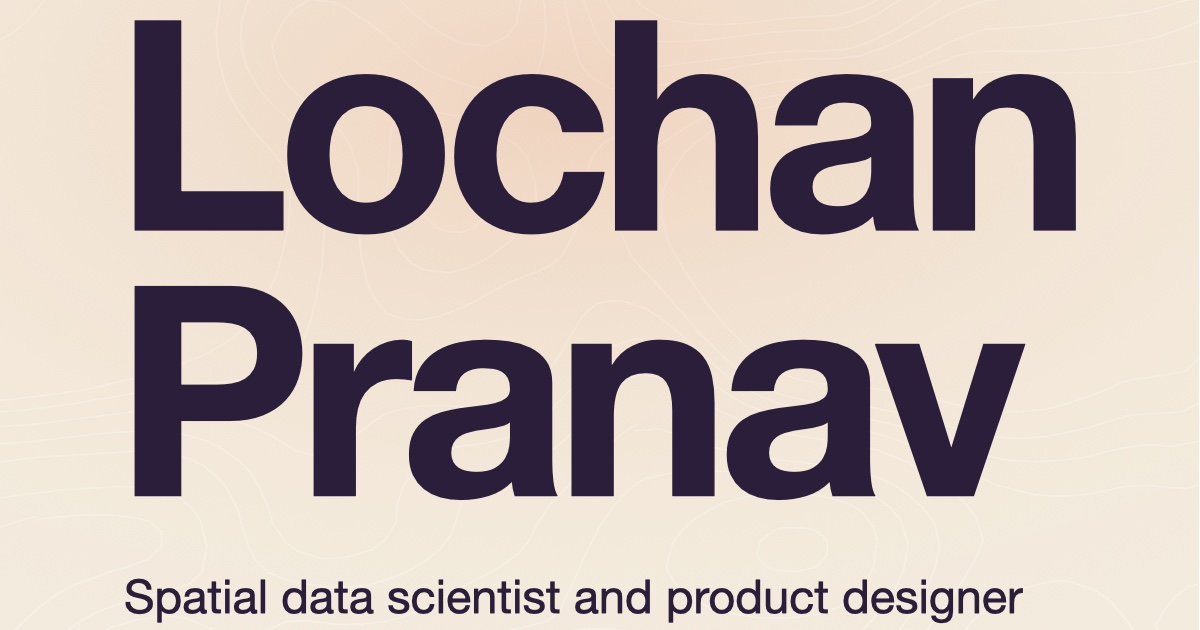
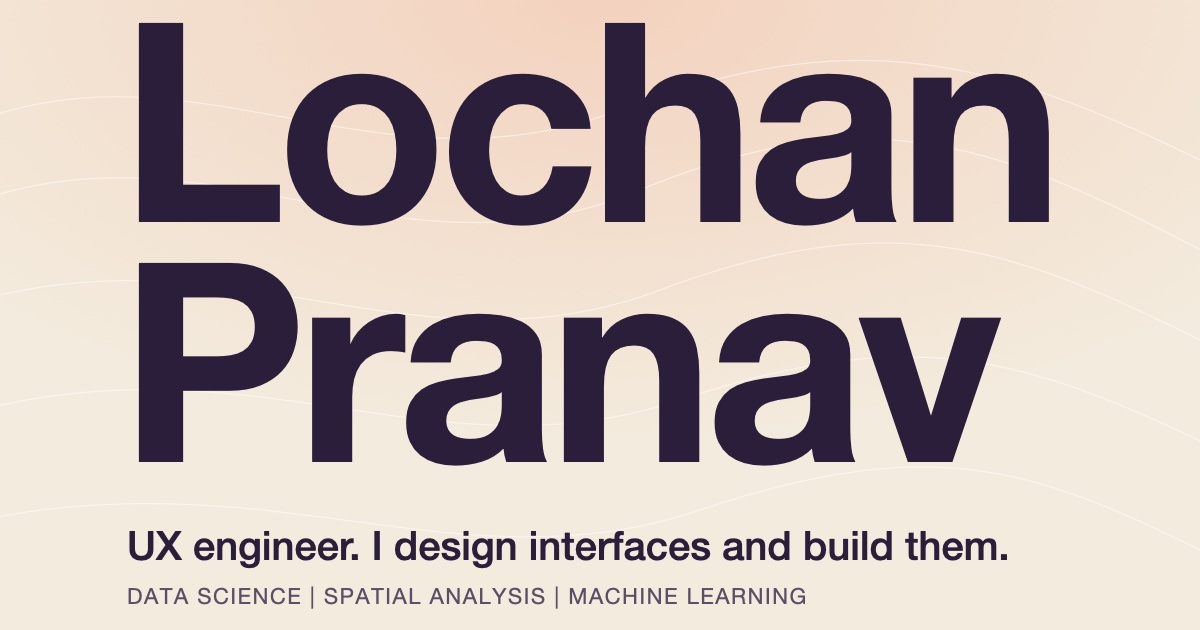
Intro narrowed to one title: UX engineer, with data science on the line beneath; About, terminal bio, page metadata and the share image follow

diff --git a/index.html b/index.html
@@ -3,10 +3,10 @@
 <head>
   <meta charset="utf-8">
   <meta name="viewport" content="width=device-width, initial-scale=1">
-  <title>Lochan Pranav, spatial data scientist and product designer</title>
-  <meta name="description" content="Spatial data scientist and product designer in Brooklyn: spatial analysis, machine learning and interface design for cities. GIS work, brand and campaign design, UI/UX case studies and industrial design.">
-  <meta property="og:title" content="Lochan Pranav, spatial data scientist and product designer">
-  <meta property="og:description" content="GIS analysis, brand and campaign design, UI/UX case studies and industrial design.">
+  <title>Lochan Pranav, UX engineer</title>
+  <meta name="description" content="UX engineer in Brooklyn. I design interfaces in Figma and build them in code, with an M.S. in Urban Data Science at NYU behind the data work. UI/UX case studies, data and GIS projects, brand and industrial design.">
+  <meta property="og:title" content="Lochan Pranav, UX engineer">
+  <meta property="og:description" content="I design interfaces and build them. UI/UX case studies, data and GIS projects, brand and industrial design.">
   <meta property="og:type" content="website">
   <meta name="twitter:card" content="summary_large_image">
   <meta property="og:image" content="https://lochanpranav.com/assets/og.jpg">
@@ -18,7 +18,7 @@
   <link rel="stylesheet" href="styles.css">
   <script>document.documentElement.classList.add("js");try{var t=localStorage.getItem("theme");if(t==="dark")document.documentElement.setAttribute("data-theme","dark");if((!sessionStorage.getItem("booted")||/[?&]boot\b/.test(location.search))&&!matchMedia("(prefers-reduced-motion: reduce)").matches)document.documentElement.classList.add("boot-hold");}catch(e){}</script>
   <link rel="stylesheet" href="terminal.css">
-  <script type="application/ld+json">{"@context":"https://schema.org","@type":"Person","name":"Lochan Pranav Mohanasundar","alternateName":"Lochan Pranav","url":"https://lochanpranav.com","jobTitle":"Spatial data scientist and product designer","email":"mailto:lm5677@nyu.edu","address":{"@type":"PostalAddress","addressLocality":"Brooklyn","addressRegion":"NY","addressCountry":"US"},"alumniOf":[{"@type":"CollegeOrUniversity","name":"New York University, Tandon School of Engineering"},{"@type":"CollegeOrUniversity","name":"MIT World Peace University"}],"sameAs":["https://www.linkedin.com/in/lochanpranav","https://github.com/lochanpranav","https://www.behance.net/lochanpranav","http://dribbble.com/LochanPranav"]}</script>
+  <script type="application/ld+json">{"@context":"https://schema.org","@type":"Person","name":"Lochan Pranav Mohanasundar","alternateName":"Lochan Pranav","url":"https://lochanpranav.com","jobTitle":"UX engineer","email":"mailto:lm5677@nyu.edu","address":{"@type":"PostalAddress","addressLocality":"Brooklyn","addressRegion":"NY","addressCountry":"US"},"alumniOf":[{"@type":"CollegeOrUniversity","name":"New York University, Tandon School of Engineering"},{"@type":"CollegeOrUniversity","name":"MIT World Peace University"}],"sameAs":["https://www.linkedin.com/in/lochanpranav","https://github.com/lochanpranav","https://www.behance.net/lochanpranav","http://dribbble.com/LochanPranav"]}</script>
 </head>
 <body id="top">
   <a class="skip" href="#main">Skip to content</a>
@@ -81,8 +81,9 @@
     <h1 class="name"><span class="sr-only">Lochan Pranav</span><span class="line" aria-hidden="true"><span class="w"><span class="ch">L</span><span class="ch">o</span><span class="ch">c</span><span class="ch">h</span><span class="ch">a</span><span class="ch">n</span></span> <span class="w"><span class="ch">P</span><span class="ch">r</span><span class="ch">a</span><span class="ch">n</span><span class="ch">a</span><span class="ch">v</span></span></span></h1>
     <div class="hero-row">
       <div class="hero-main">
-        <p class="tagline fade">Spatial data scientist <em>and</em> product designer.</p>
-        <p class="intro fade">I am a product designer who became a data scientist, and I still work as both. I think in <strong>maps and interfaces at once</strong>: where something is, who it affects, and what a person needs to see to act on it.</p>
+        <p class="tagline fade">UX engineer. I design interfaces <em>and</em> build them.</p>
+        <p class="also fade">Data science <i aria-hidden="true">|</i> Spatial analysis <i aria-hidden="true">|</i> Machine learning <i aria-hidden="true">|</i> Design systems</p>
+        <p class="intro fade">I start in research and Figma and finish in working code: this site in HTML, CSS and JavaScript, a civic mapping app in Python. I am finishing an M.S. in Urban Data Science at NYU, so I understand <strong>the data behind the screen</strong>, not only the screen.</p>
       </div>
       <aside class="panel fade" aria-label="At a glance">
         <dl>
@@ -92,7 +93,7 @@
         </dl>
       </aside>
     </div>
-    <div class="hero-foot"><span class="scroll-label greet"><span id="greet">good day</span>, still <b class="word" id="status-word">mapping</b></span><div class="ticker" aria-hidden="true"><ul><li>Spatial analysis</li><li>Machine learning</li><li>Cartography</li><li>Product design</li><li>UI/UX</li><li>Design systems</li><li>Brand and campaign</li><li>Industrial design</li><li>Python</li><li>ArcGIS Pro</li><li>Figma</li><li>Brooklyn, NY</li><li>Spatial analysis</li><li>Machine learning</li><li>Cartography</li><li>Product design</li><li>UI/UX</li><li>Design systems</li><li>Brand and campaign</li><li>Industrial design</li><li>Python</li><li>ArcGIS Pro</li><li>Figma</li><li>Brooklyn, NY</li></ul></div></div>
+    <div class="hero-foot"><span class="scroll-label greet"><span id="greet">good day</span>, still <b class="word" id="status-word">prototyping</b></span><div class="ticker" aria-hidden="true"><ul><li>UX engineering</li><li>Interface design</li><li>Prototyping</li><li>Design systems</li><li>Usability testing</li><li>Figma</li><li>HTML, CSS, JavaScript</li><li>Python</li><li>Data science</li><li>Spatial analysis</li><li>Machine learning</li><li>ArcGIS Pro</li><li>Brooklyn, NY</li><li>UX engineering</li><li>Interface design</li><li>Prototyping</li><li>Design systems</li><li>Usability testing</li><li>Figma</li><li>HTML, CSS, JavaScript</li><li>Python</li><li>Data science</li><li>Spatial analysis</li><li>Machine learning</li><li>ArcGIS Pro</li><li>Brooklyn, NY</li></ul></div></div>
   </header>
 
   <main class="wrap" id="main">
@@ -552,27 +553,27 @@
     <section id="about" class="about">
       <div>
         <p class="kicker reveal"><i class="dot"></i><span>About</span><span class="sep" aria-hidden="true">·</span><span>Brooklyn, NY</span></p>
-        <p class="statement reveal">Trained as a designer, working as a data scientist, <em>still both.</em></p>
+        <p class="statement reveal">A designer who builds, <em>with a data scientist's training.</em></p>
         <p class="reveal">I studied product design at MIT World Peace University in Pune and spent 2024 as the designer at Address Masters, an early-stage startup in Bangalore, working across the product and its marketing.</p>
         <p class="reveal">In 2025 I moved to Brooklyn for the M.S. in Urban Data Science at NYU Tandon. Through NYU's Center for Urban Science and Progress I spent a semester with the City of Tulsa Auditor's Office, where my teammate and I built a mapping tool the office now owns.</p>
         <p class="reveal">The through line is data that people have to act on. Designers usually hand that problem to someone else. I would rather understand the data well enough to design the right thing, and increasingly, to build it.</p>
         <div class="worlds reveal">
           <div>
-            <p class="kicker"><i class="dot ui"></i><span>As a designer</span></p>
+            <p class="kicker"><i class="dot ui"></i><span>Design</span></p>
             <ul>
               <li>Figma prototypes tested with 18 users, then iterated</li>
               <li>A component library that cut iteration time by a quarter</li>
+              <li>A 26 screen prototype built on NYC open data</li>
               <li>Brand systems, 200+ creatives and two films</li>
-              <li>Seven physical products, from sketch to render</li>
             </ul>
           </div>
           <div>
-            <p class="kicker"><i class="dot gis"></i><span>As a data scientist</span></p>
+            <p class="kicker"><i class="dot gis"></i><span>Code and data</span></p>
             <ul>
-              <li>Network and hot-spot analysis in ArcGIS Pro</li>
+              <li>This site, in HTML, CSS and JavaScript with AI assisted coding</li>
+              <li>A Streamlit app in Python on 493 geocoded venues</li>
               <li>Six cross-validated models on 2,120 census tracts</li>
-              <li>Mixed-methods research for a city audit office</li>
-              <li>A Streamlit app on 493 geocoded venues</li>
+              <li>Network and hot-spot analysis in ArcGIS Pro</li>
             </ul>
           </div>
         </div>
@@ -583,8 +584,8 @@
           <figcaption>Brooklyn, 2026</figcaption>
         </figure>
         <ul class="lines reveal">
-          <li>Spatial analysis and machine learning on city data</li>
-          <li>Interfaces, maps and visual systems that make the findings usable</li>
+          <li>Interfaces, prototypes and design systems, from Figma to working code</li>
+          <li>Data science and spatial analysis on city data</li>
           <li>Physical products, from sketch to render</li>
           <li>Films and campaign systems when the work needs them</li>
         </ul>

diff --git a/styles.css b/styles.css
@@ -184,6 +184,7 @@ html.js h1.name .line > .w:nth-child(2) { animation-delay: .06s; }
 html.js .hero .fade { opacity: 0; transform: translateY(12px); animation: fade .6s var(--ease-out) forwards; }
 html.js .hero .status.fade { animation-delay: .1s; }
 html.js .hero .tagline.fade { animation-delay: .26s; }
+html.js .hero .also.fade { animation-delay: .3s; }
 html.js .hero .intro.fade { animation-delay: .34s; }
 html.js .hero .panel.fade { animation-delay: .4s; }
 html.js .hero .hero-foot { opacity: 0; animation: fade .6s var(--ease-out) .55s forwards; }
@@ -193,6 +194,8 @@ html.seen h1.name .line > .w, html.seen .hero .fade, html.seen .hero .hero-foot 
 .hero-row { display: grid; grid-template-columns: minmax(0, 1.5fr) minmax(300px, .9fr); gap: 28px 64px; align-items: start; border-top: 1px solid var(--rule); padding-top: 22px; }
 .tagline { font-family: var(--display); font-weight: 500; font-size: clamp(22px, 2.7vw, 34px); letter-spacing: -0.02em; line-height: 1.15; max-width: 30ch; margin: 0 0 16px; text-wrap: balance; }
 .tagline em { font-family: var(--serif); font-style: italic; font-weight: 400; font-size: var(--serif-bump); color: var(--accent); letter-spacing: 0; }
+.hero .also { font-family: var(--mono); font-size: 12px; letter-spacing: .08em; text-transform: uppercase; color: var(--muted); margin: 0 0 16px; }
+.hero .also i { font-style: normal; color: var(--accent); margin: 0 8px; }
 .hero .intro { font-size: 18px; line-height: 1.5; max-width: 60ch; margin: 0; color: var(--prose); }
 .hero .intro strong { color: var(--ink); font-weight: 500; }
 .panel { border-left: 1px solid var(--rule); padding: 2px 0 0 28px; }

diff --git a/terminal.js b/terminal.js
@@ -33,9 +33,9 @@
     ['product', 'Tree bookshelf', 'tree-bookshelf', 'A dado-jointed wooden shelf sized from anthropometric data. Furniture.']
   ];
   var ABOUT = [
-    'Lochan Pranav Mohanasundar: spatial data scientist and product designer in Brooklyn, NY.',
+    'Lochan Pranav Mohanasundar: UX engineer in Brooklyn, NY.',
     'M.S. Urban Data Science at NYU Tandon (CUSP), expected May 2027. Before that, B.Des Product Design at MIT World Peace University, Pune, 2024.',
-    'A product designer who became a data scientist and still works as both: maps and interfaces at once, where something is, who it affects, and what a person needs to see to act on it.'
+    'I design interfaces and build them: research and Figma first, then working code. The M.S. in Urban Data Science means I understand the data behind the screen, not only the screen.'
   ];
   var EDU = [
     'NYU Tandon School of Engineering, Brooklyn: M.S. Urban Data Science, Center for Urban Science and Progress (CUSP), Aug 2025 to May 2027 (expected). GPA 3.77 / 4.0.',

diff --git a/site.js b/site.js
@@ -499,7 +499,7 @@
     greet.textContent = hour < 5 ? 'late night in Brooklyn' : hour < 12 ? 'good morning' : hour < 17 ? 'good afternoon' : hour < 22 ? 'good evening' : 'late night in Brooklyn';
   }
   if (word && !reduce) {
-    var words = ['mapping', 'prototyping', 'modeling', 'sketching', 'building'], wi = 0;
+    var words = ['prototyping', 'building', 'mapping', 'modeling', 'sketching'], wi = 0;
     setInterval(function () { wi = (wi + 1) % words.length; if (window.scrambleTo) window.scrambleTo(words[wi]); else word.textContent = words[wi]; }, 2800);
   }
 
